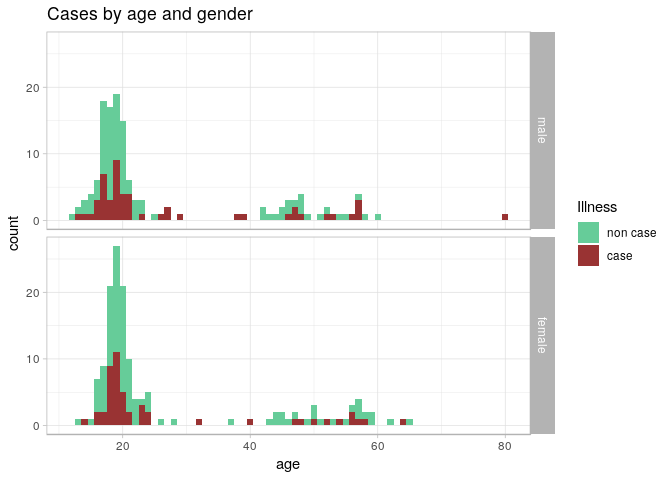
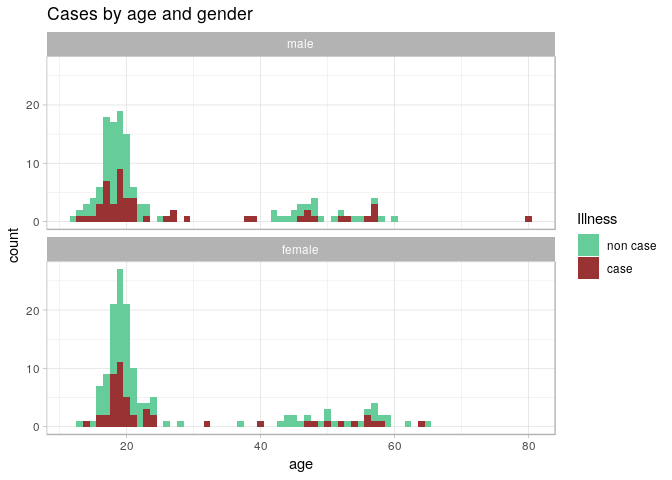
add some clarification on plots

diff --git a/content/post/practical-stegen.md b/content/post/practical-stegen.md
@@ -1007,10 +1007,10 @@ more):
 ``` r
 plot(i_ill, border = "grey40", show_cases = TRUE, color = c("non case" = "#66cc99", "case" = "#993333")) + 
   labs(title = "Epicurve by case", x = "Date of onset", y = "Number of cases") +
-  theme_light(base_family = "Times", base_size = 16) +
-  theme(legend.position = c(0.8, 0.8)) +
-  theme(axis.text.x = element_text(angle = 45, hjust = 1, vjust = 1)) +
-  coord_equal()
+  theme_light(base_family = "Times", base_size = 16) + # changes the overal theme
+  theme(legend.position = c(x = 0.7, y = 0.8)) + # places the legend inside the plot
+  theme(axis.text.x = element_text(angle = 45, hjust = 1, vjust = 1)) + # sets the dates along the x axis at a 45 degree angle
+  coord_equal() # makes each case appear as a box
 ```
 
 ![](practical-stegen_files/figure-gfm/incidence_stratified_custom-1.png)<!-- -->
@@ -1021,14 +1021,14 @@ plot(i_ill, border = "grey40", show_cases = TRUE, color = c("non case" = "#66cc9
 
 We use the same principles as before to visualise the distribution of
 illness by age and gender. To split the plot into different panels
-according to `sex`, we use `facet_grid()` (see previous extra info on
+according to `sex`, we use `facet_wrap()` (see previous extra info on
 *ggplot2* customisation for further details otions):
 
 ``` r
 ggplot(stegen) + 
   geom_histogram(aes(x = age, fill = ill), binwidth = 1) +
   scale_fill_manual("Illness", values = c("non case" = "#66cc99", "case" = "#993333")) +
-  facet_grid(sex ~ .) + 
+  facet_wrap(~sex, ncol = 1) + # stratify the sex into a single column of panels
   labs(title = "Cases by age and gender") + 
   theme_light()
 ```
@@ -1044,8 +1044,8 @@ analysis in the next section.
 
 # Looking for the culprits
 
-In order to figure out which food item was responsible for the outbreak,
-we need to test the [Risk
+In order to figure out which food item was most strongly associated with
+the illness, we need to test the [Risk
 Ratio](https://en.wikipedia.org/wiki/Risk_ratio) for all of the food
 items recorded. Risk ratios are normally computed on *contingency*
 tables (commonly known as 2x2 tables). In this part, we will compute
@@ -1080,6 +1080,19 @@ head(stegen)
     ## #   pork <dbl>, latitude <dbl>, longitude <dbl>
 
 ### Isolating the variables to test
+
+<!--
+You need to update the two paragraphs describing the exposure variables here
+(sorry came back to this after reading the code updates lower down - code fine,
+description wrong). So this whole only keeping the variables (unless theres a
+good data practice and/or a rational for using it within apply) - I dont think
+is necessary. From an epi standpoint you generally would always keep the data
+that you have collected (because if its not useful you shouldnt collect it).
+Furthermore when transitioning to multivariable analysis, we would want to
+include all variables of interest not just food. So, I would suggest: keep the
+food vector with the names of variables of interest, but dont subset the
+dataset - just use the food names vector in the functions below?
+-->
 
 Because not all of the columns in our data set are food items (i.e.
 “age”, and “tportion”), we only want to keep the columns that are
